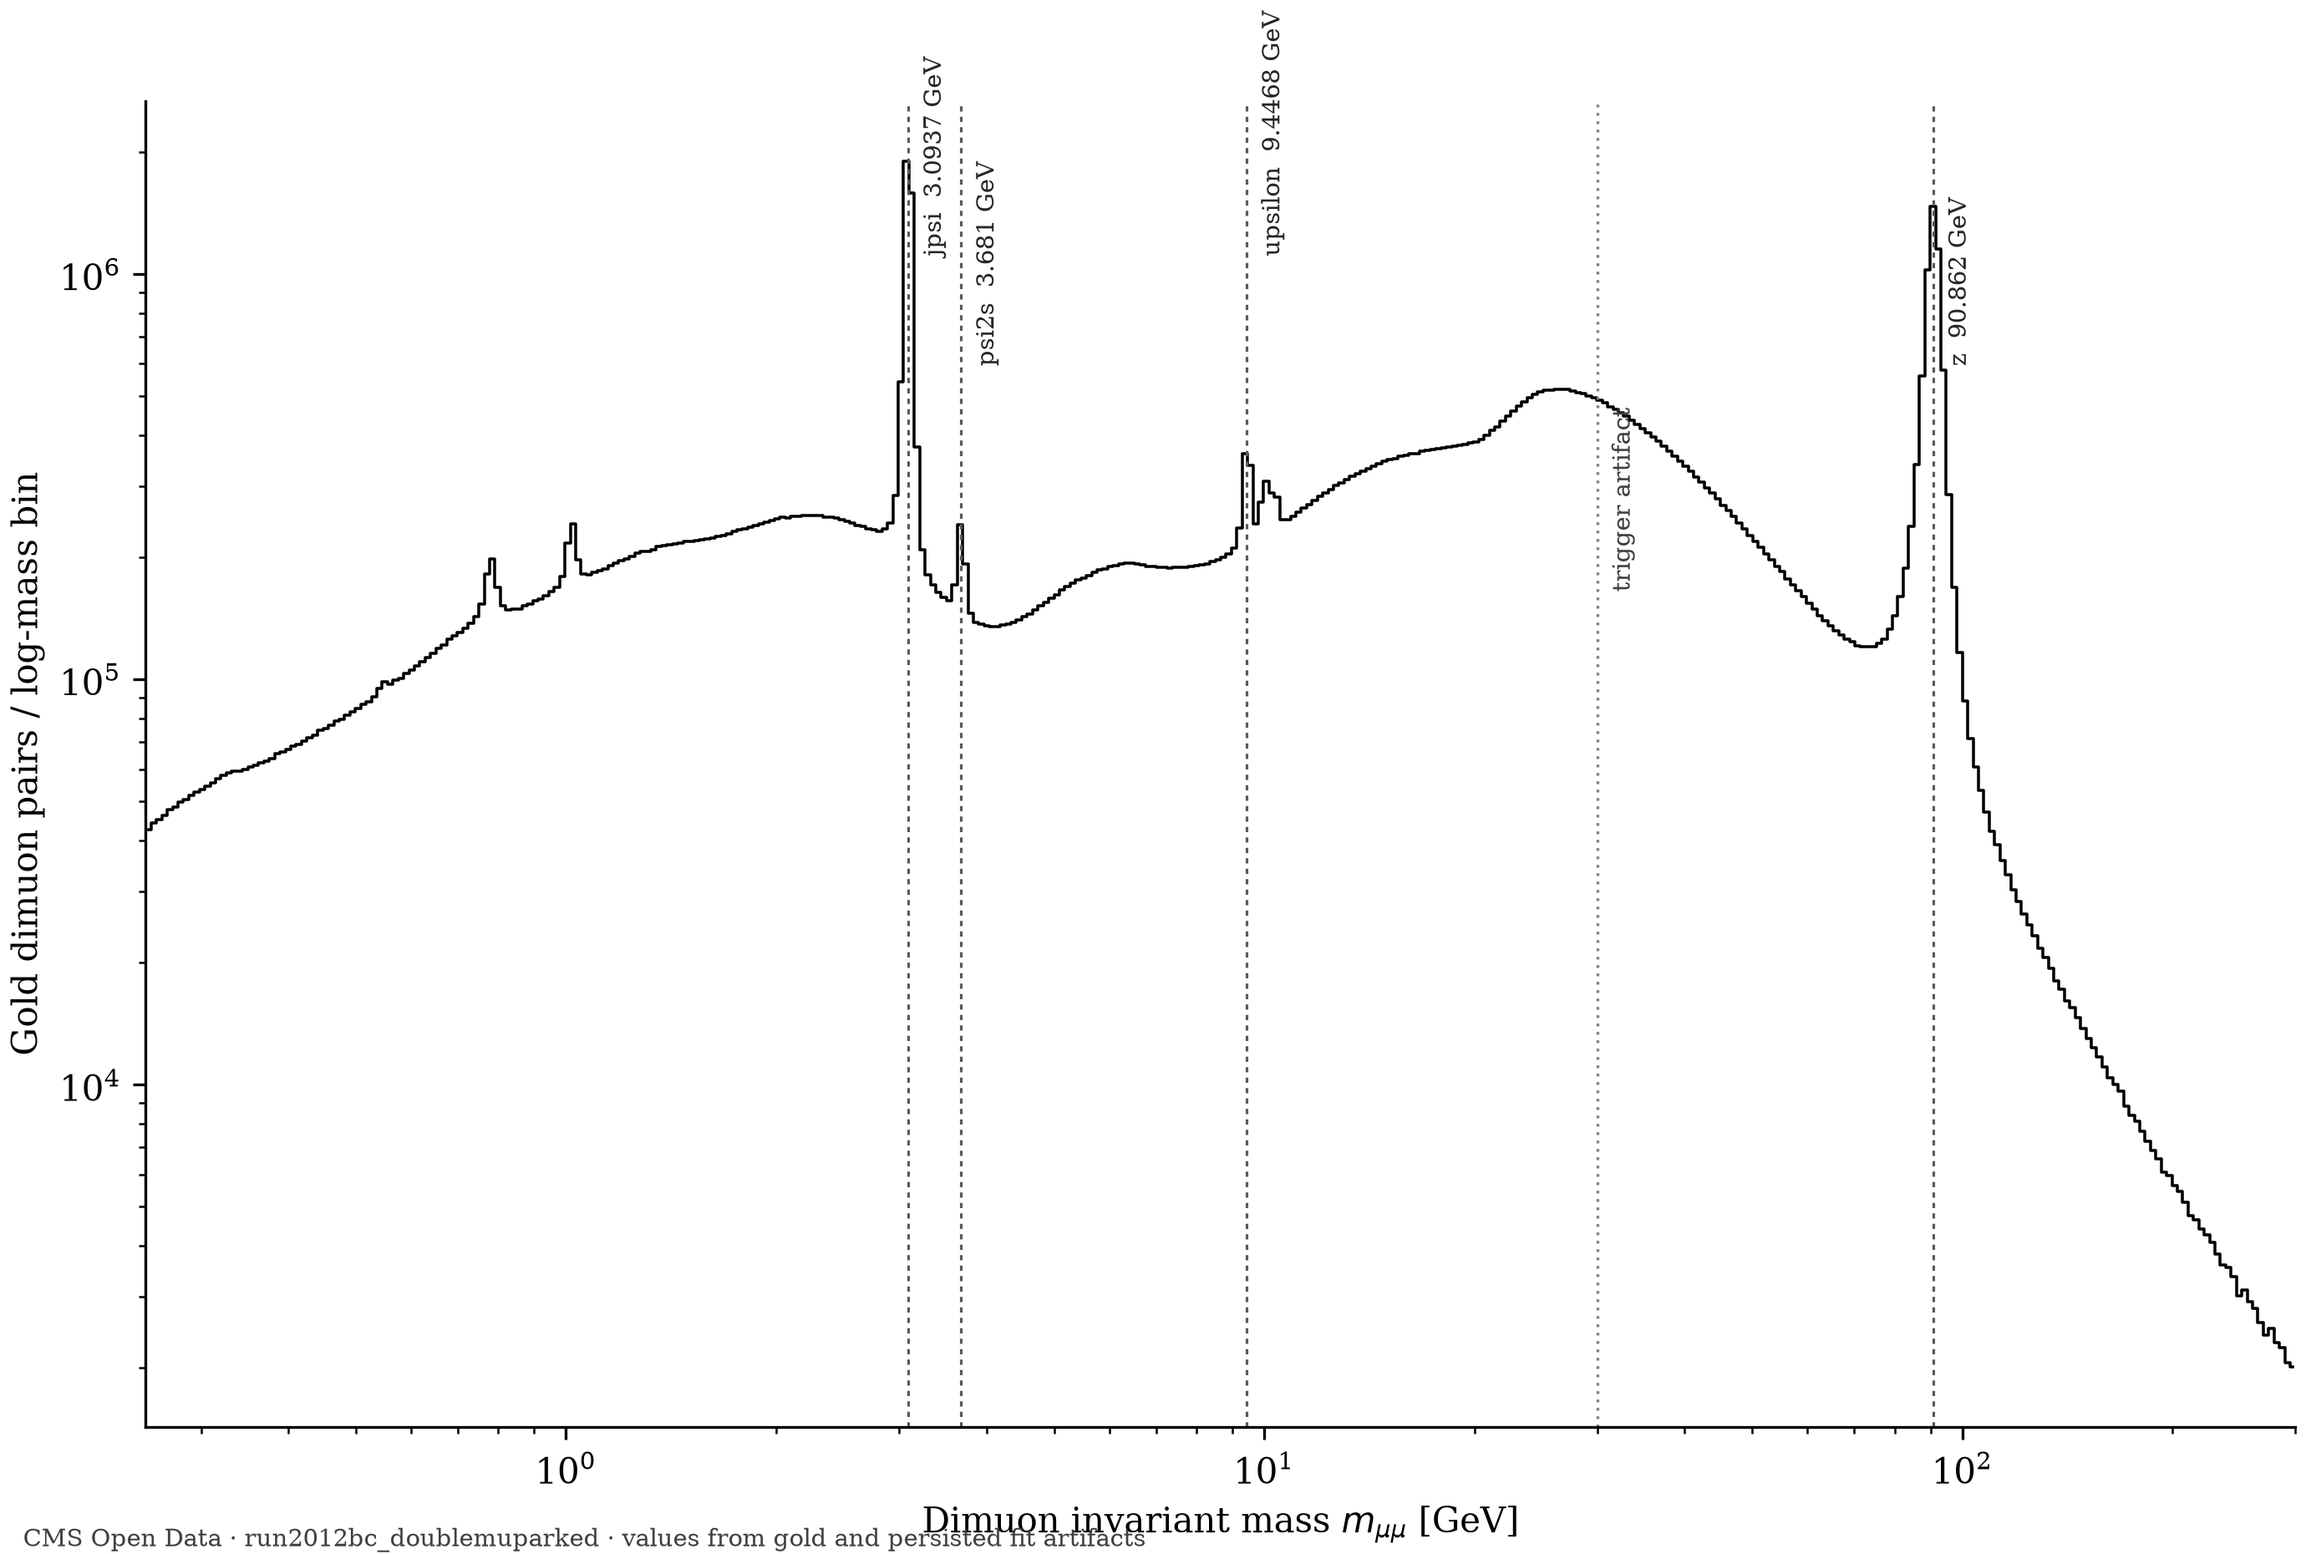
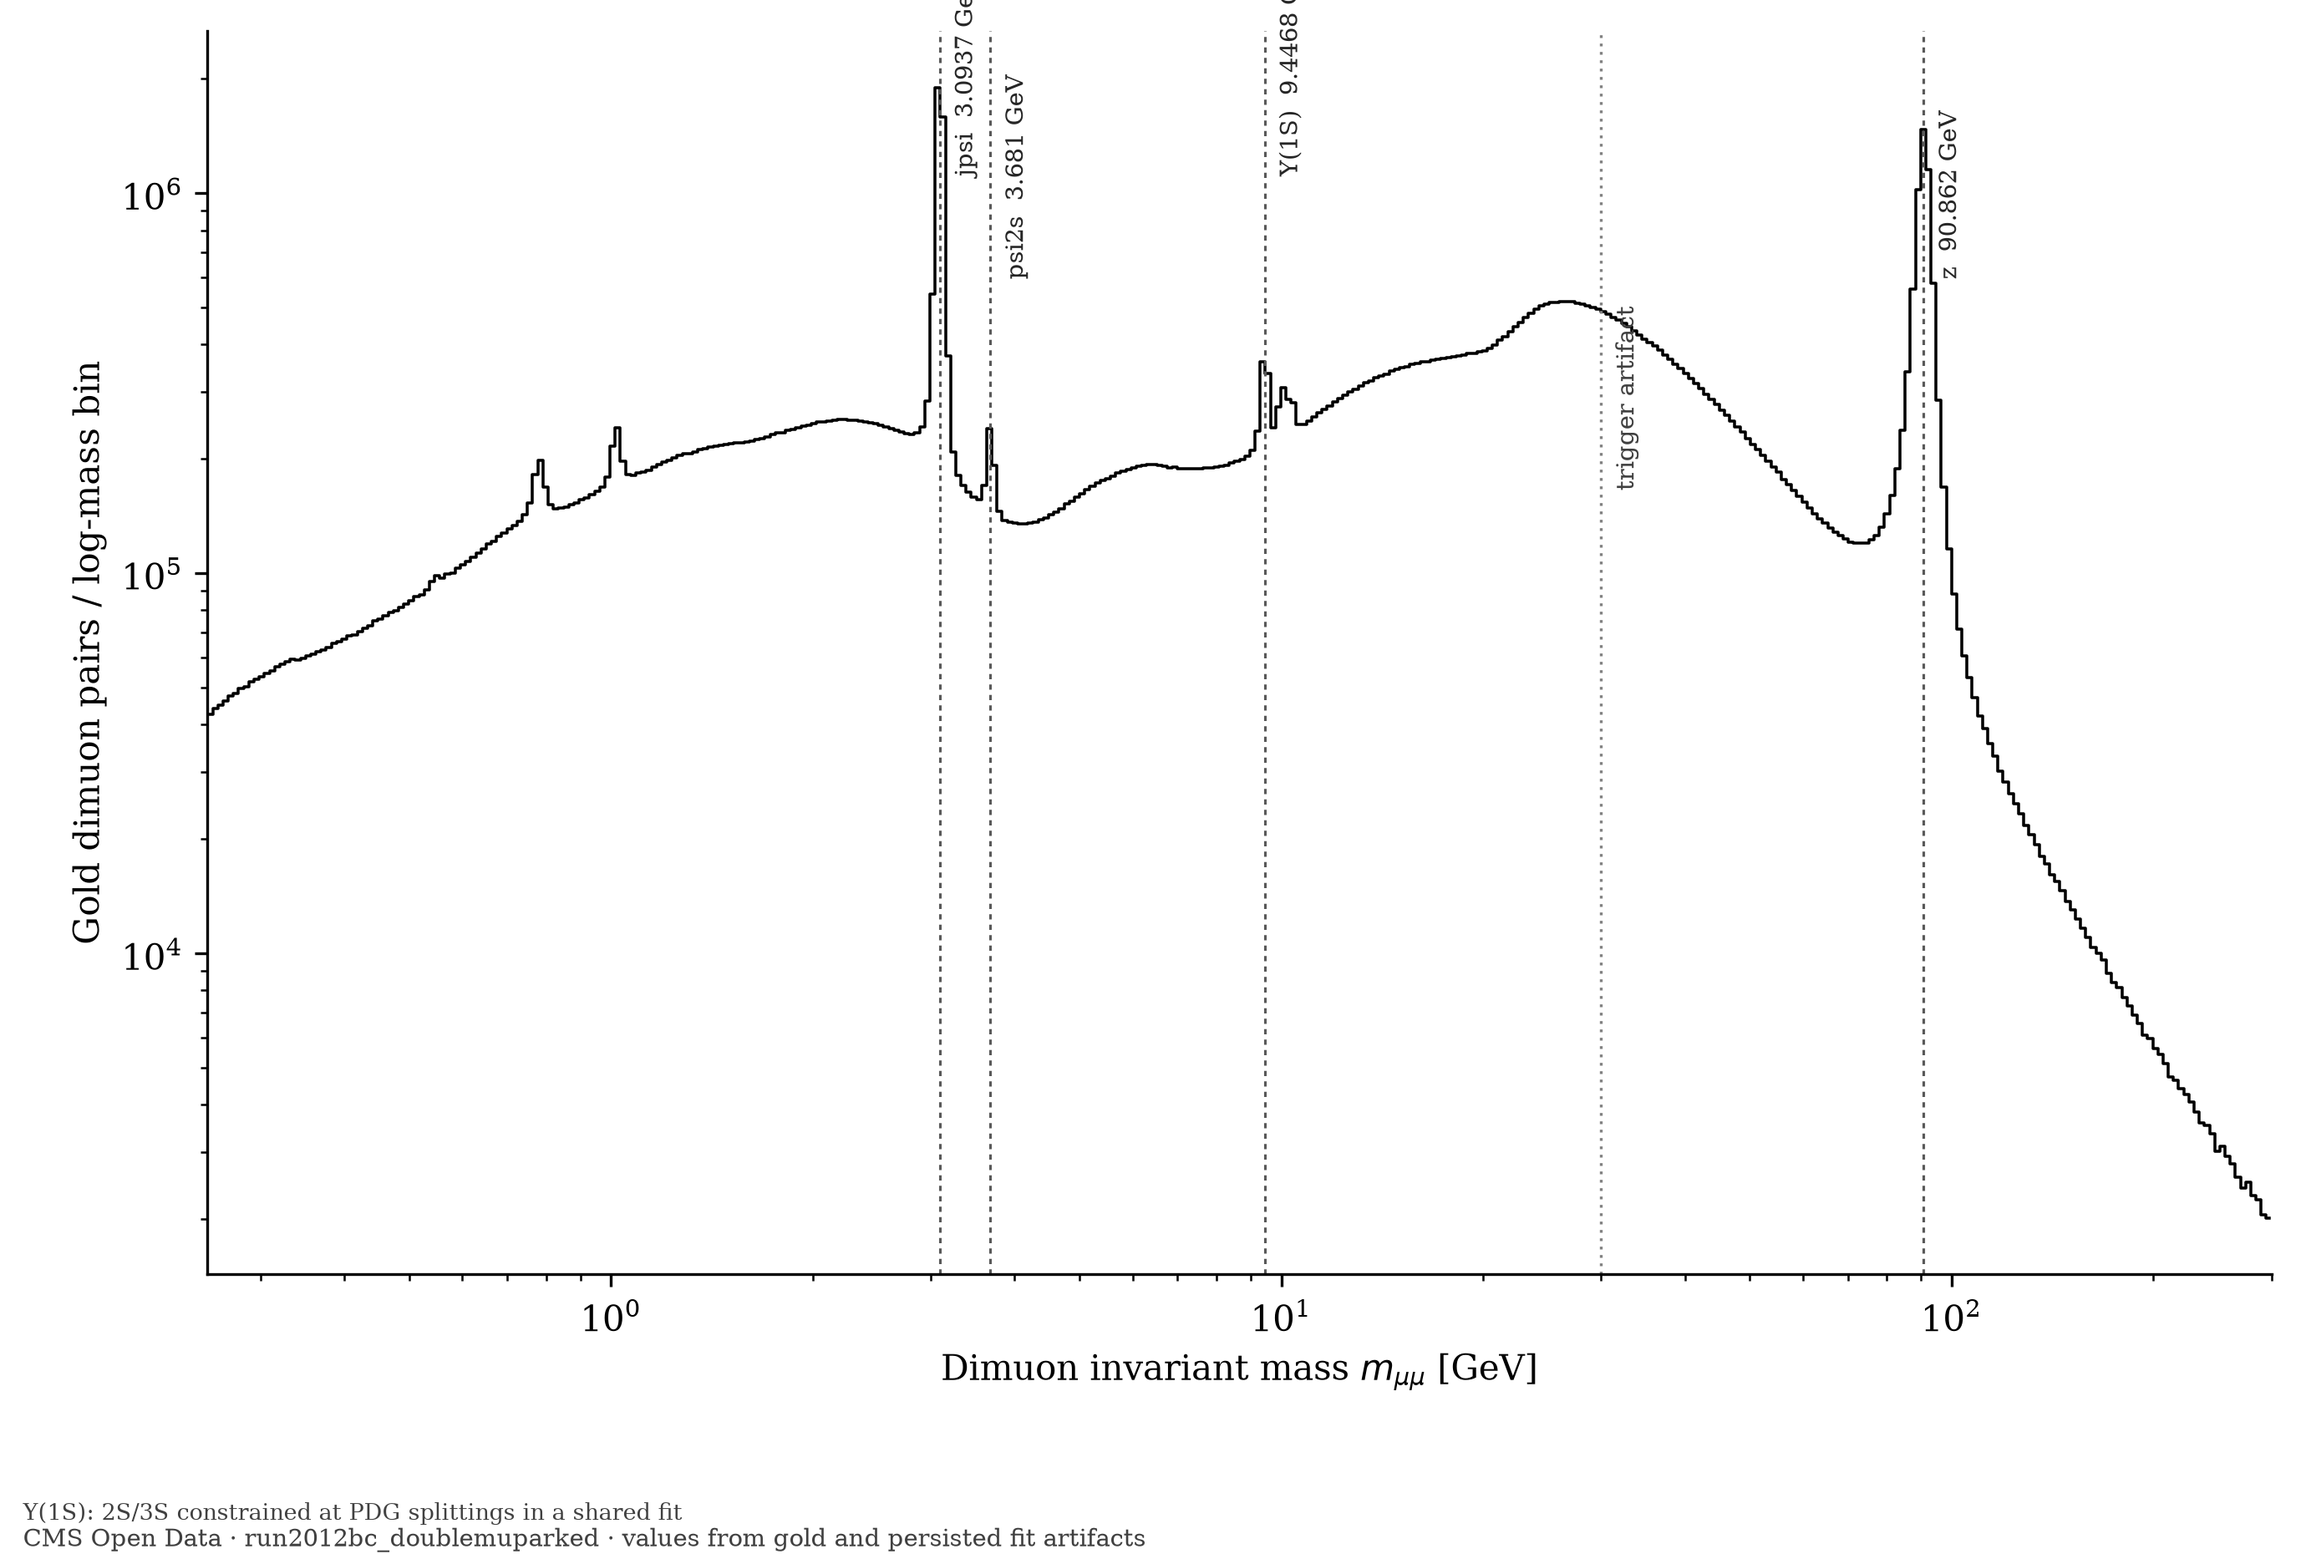
Clean up

diff --git a/src/figures/ladder.py b/src/figures/ladder.py
@@ -243,7 +243,8 @@ def _render_ladder(
 ) -> list[Path]:
     settings = cfg["ladder"]
     centers = np.sqrt(edges[:-1] * edges[1:])
-    fig, ax = plt.subplots(figsize=(9.2, 6.2), constrained_layout=True)
+    fig, ax = plt.subplots(figsize=(9.2, 6.2), constrained_layout=False)
+    fig.subplots_adjust(left=0.09, right=0.985, top=0.98, bottom=0.18)
     ax.step(centers, counts, where="mid", color="black", linewidth=0.85)
     ax.set_xscale("log")
     ax.set_yscale("log")

diff --git a/README.md b/README.md
@@ -1,10 +1,7 @@
 # ColliderLake
 
-![Dimuon invariant-mass spectrum from 61.5M events of 2012 CMS Open Data](docs/results/figures/dimuon_ladder.png)
-*The dimuon resonance ladder from 83,057,658 opposite-charge pairs: J/psi, psi', Upsilon(1S-3S) and Z fitted within 0.10-0.36% of PDG values; omega and phi visible unfitted at low mass. Every annotation is drawn from the pipeline's own fit artifacts; see [docs/results/M1_RESONANCE_LADDER.md](docs/results/M1_RESONANCE_LADDER.md).*
 
-A lakehouse-style data platform for CMS Open Data. ColliderLake ingests real
-collision data from the [CERN Open Data portal](https://opendata.cern.ch),
+A lakehouse-style data platform for CMS Open Data. ColliderLake ingests real collision data from the [CERN Open Data portal](https://opendata.cern.ch),
 processes it through structured, quality-gated layers, and reproduces
 benchmark particle-physics results with full provenance and reproducible,
 scripted execution.
@@ -91,6 +88,13 @@ figure generation, and the full-statistics production run are in progress.
 The earlier proof-of-concept is preserved under `POC/`.
 M1 resonance ladder result ledger: [docs/results/M1_RESONANCE_LADDER.md](docs/results/M1_RESONANCE_LADDER.md).
 Project overview page: docs/overview.html
+
+<p align="center">
+  <img src="docs/results/figures/dimuon_ladder.png" alt="Dimuon invariant-mass spectrum from 61.5M events of 2012 CMS Open Data" width="1000">
+</p>
+
+<p align="center"><em>The dimuon resonance ladder from 83,057,658 opposite-charge pairs: J/psi, psi', Upsilon(1S-3S) and Z fitted within 0.10-0.36% of PDG values; omega and phi visible unfitted at low mass. Every annotation is drawn from the pipeline's own fit artifacts; see <a href="docs/results/M1_RESONANCE_LADDER.md">docs/results/M1_RESONANCE_LADDER.md</a>.</em></p>
+
 
 ## License and disclaimer
 
